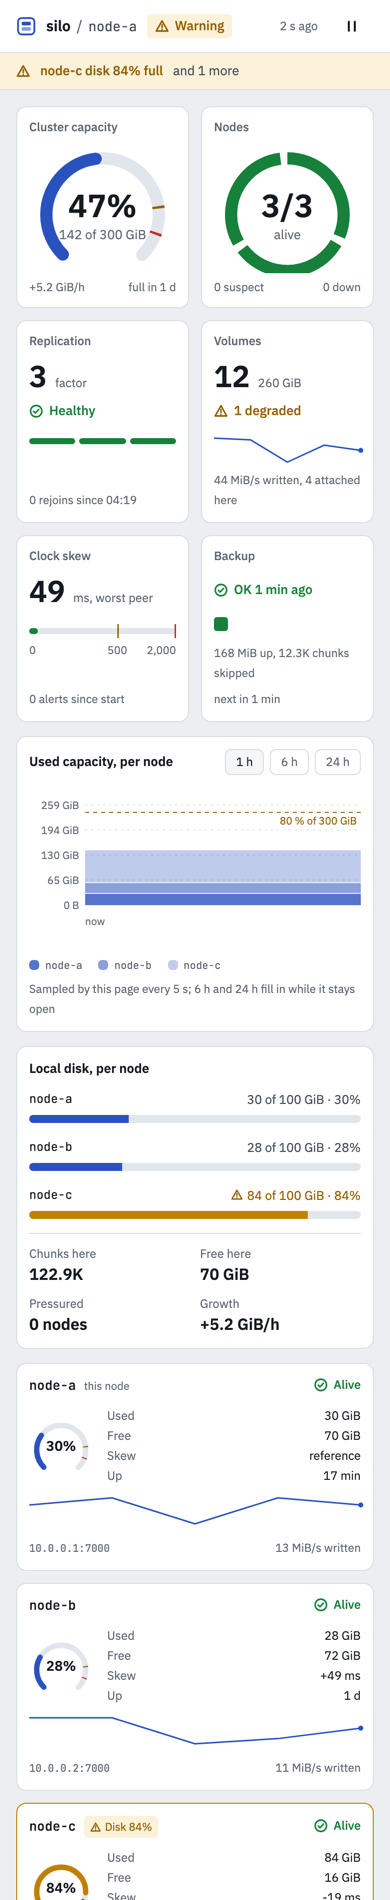
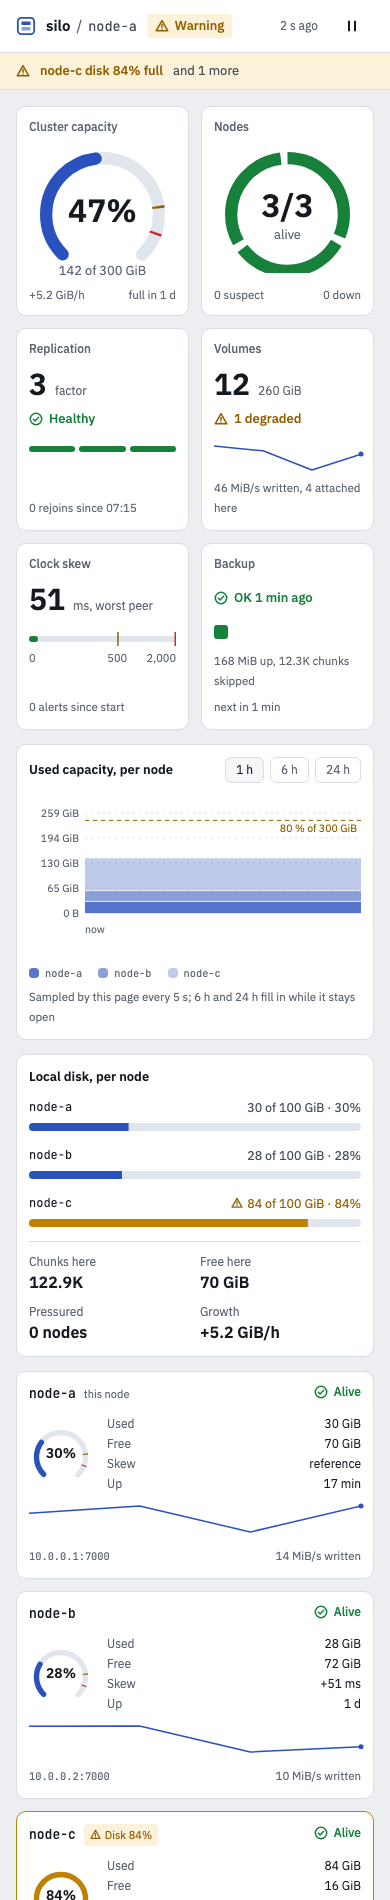
ui: move the gauge caption below the arc
The capacity gauge drew its caption at y=80, level with the lower third of
the arc, where the inner edge leaves only about 70 units of room. A caption
like "455 GiB of 2.4 TiB" is about 100 units wide at that size, so its first
and last words were painted over the two arc ends.

The caption now sits below the arc ends, where the whole width is free, and
the viewBox grows to fit only when there is a caption, so the node cards
keep their tight box. Captions longer than 20 characters are cut with an
ellipsis; the accessible name keeps the full text. The skeleton on the
capacity tile follows the new aspect ratio, and the docs screenshots are
re-captured.

diff --git a/ui/src/components/charts/ArcGauge.vue b/ui/src/components/charts/ArcGauge.vue
@@ -40,6 +40,17 @@ const CAPTION: Readonly<Record<Level, string>> = {
 const WORD: Readonly<Record<Level, string>> = { healthy: '', attention: 'warning', degraded: 'critical' }
 const TICK = ['var(--c-warn)', 'var(--c-crit)']
 
+// The arc ends reach down to about y=101 (outer edge, round caps included), so
+// a caption between them would be drawn over the arc. It sits below them
+// instead, where the full width is free, and the viewBox grows only when there
+// is one so captionless gauges keep their tight box.
+const CAPTION_Y = 109
+const HEIGHT = 108
+const HEIGHT_WITH_CAPTION = 114
+// At font-size 10.5 a character is about 6 units wide, so 20 fill the 120-unit
+// box. formatOf tops out at "1023 GiB of 1023 TiB" (20), which always fits.
+const CAPTION_MAX = 20
+
 const track = arcDash(1, R, SWEEP)
 const level = computed<Level>(() => props.level ?? fillLevel(props.ratio))
 const fill = computed(() => (props.ratio !== null && props.ratio > 0 ? arcDash(props.ratio, R, SWEEP) : null))
@@ -52,6 +63,11 @@ const tickMarks = computed(() =>
     .filter(({ t }) => props.ratio === null || t > props.ratio),
 )
 
+const viewBox = computed(() => `0 0 120 ${String(props.caption ? HEIGHT_WITH_CAPTION : HEIGHT)}`)
+const shownCaption = computed(() =>
+  props.caption.length > CAPTION_MAX ? `${props.caption.slice(0, CAPTION_MAX - 1).trimEnd()}\u2026` : props.caption,
+)
+
 const ariaLabel = computed(() => {
   if (props.ratio === null) return `${props.label} not available`
   return [`${props.label} ${props.value}`, props.caption, WORD[level.value]].filter((s) => s !== '').join(', ')
@@ -61,7 +77,7 @@ const ariaLabel = computed(() => {
 <template>
   <svg
     width="100%"
-    viewBox="0 0 120 108"
+    :viewBox="viewBox"
     role="img"
     :aria-label="ariaLabel"
     class="block"
@@ -108,7 +124,7 @@ const ariaLabel = computed(() => {
     />
     <text
       x="60"
-      y="62"
+      :y="caption ? 66 : 62"
       text-anchor="middle"
       font-size="26"
       font-weight="600"
@@ -117,10 +133,10 @@ const ariaLabel = computed(() => {
     <text
       v-if="caption"
       x="60"
-      y="80"
+      :y="CAPTION_Y"
       text-anchor="middle"
       font-size="10.5"
       :fill="CAPTION[level]"
-    >{{ caption }}</text>
+    >{{ shownCaption }}</text>
   </svg>
 </template>

diff --git a/ui/src/components/charts/ArcGauge.spec.ts b/ui/src/components/charts/ArcGauge.spec.ts
@@ -36,6 +36,35 @@ describe('ArcGauge', () => {
     expect(w.findAll('[data-part="tick"]')).toHaveLength(ticks)
   })
 
+  it('keeps the tight box and centred value when there is no caption', () => {
+    const w = gauge()
+    expect(w.get('svg').attributes('viewBox')).toBe('0 0 120 108')
+    expect(w.get('text').attributes('y')).toBe('62')
+    expect(w.findAll('text')).toHaveLength(1)
+  })
+
+  it('puts the caption below the arc ends and grows the box to fit it', () => {
+    const w = gauge({ caption: '455 GiB of 2.4 TiB' })
+    const [value, caption] = w.findAll('text')
+    expect(w.get('svg').attributes('viewBox')).toBe('0 0 120 114')
+    expect(value?.attributes('y')).toBe('66')
+    // The arc's outer edge ends near y=101; a 10.5 caption with its baseline
+    // at 109 starts below that.
+    expect(Number(caption?.attributes('y'))).toBeGreaterThan(101 + 7)
+    expect(caption?.text()).toBe('455 GiB of 2.4 TiB')
+  })
+
+  it('shows a 20 character caption in full', () => {
+    expect(gauge({ caption: '1023 GiB of 1023 TiB' }).findAll('text')[1]?.text()).toBe('1023 GiB of 1023 TiB')
+  })
+
+  it('cuts a longer caption with an ellipsis but keeps it whole in the accessible name', () => {
+    const long = 'a caption far too long to fit'
+    const w = gauge({ caption: long })
+    expect(w.findAll('text')[1]?.text()).toBe('a caption far too l\u2026')
+    expect(w.get('svg').attributes('aria-label')).toBe(`Capacity 47%, ${long}`)
+  })
+
   it('draws warn and crit ticks at 80 and 90 percent by default', () => {
     const ticks = gauge().findAll('[data-part="tick"]')
     expect(ticks.map((t) => t.attributes('stroke'))).toEqual(['var(--c-warn)', 'var(--c-crit)'])

diff --git a/ui/src/components/tiles/CapacityTile.spec.ts b/ui/src/components/tiles/CapacityTile.spec.ts
@@ -22,7 +22,7 @@ const footer = (w: ReturnType<typeof tile>) => w.findAll('.mt-auto span').map((s
 describe('CapacityTile', () => {
   it('shows a skeleton and no gauge while loading', () => {
     const w = tile({ capacity: undefined })
-    expect(w.findComponent(Skeleton).exists()).toBe(true)
+    expect(w.findComponent(Skeleton).classes()).toContain('aspect-[120/114]')
     expect(w.find('svg').exists()).toBe(false)
     expect(footer(w)).toEqual(['', ''])
   })
@@ -38,6 +38,11 @@ describe('CapacityTile', () => {
     const label = tile().get('svg').attributes('aria-label')
     expect(label).toContain('30%')
     expect(label).toContain('30 of 100 GiB')
+  })
+
+  it('reserves the same box for the skeleton as the captioned gauge draws', () => {
+    const [, , w, h] = (tile().get('svg').attributes('viewBox') ?? '').split(' ')
+    expect(tile({ capacity: undefined }).findComponent(Skeleton).classes()).toContain(`aspect-[${String(w)}/${String(h)}]`)
   })
 
   it('shows growth only when the rate is known', () => {

diff --git a/ui/src/components/NodeCard.spec.ts b/ui/src/components/NodeCard.spec.ts
@@ -25,6 +25,12 @@ describe('NodeCard header', () => {
     expect(w.get('article').attributes('aria-labelledby')).toBe(w.get('h3').attributes('id'))
   })
 
+  it('draws the disk gauge without a caption, so it keeps the tight box', () => {
+    const svg = card({ usedBytes: 30 * GIB, capacityBytes: 100 * GIB }).get('svg[role="img"]')
+    expect(svg.attributes('viewBox')).toBe('0 0 120 108')
+    expect(svg.findAll('text')).toHaveLength(1)
+  })
+
   it('tags the responding node only', () => {
     expect(card({}, { self: true }).text()).toContain('this node')
     expect(card({}, { self: false }).text()).not.toContain('this node')

diff --git a/ui/src/components/tiles/CapacityTile.vue b/ui/src/components/tiles/CapacityTile.vue
@@ -35,7 +35,7 @@ const full = computed(() => {
     <div class="mx-auto w-full max-w-[150px]">
       <Skeleton
         v-if="capacity === undefined"
-        class="aspect-[120/108] w-full rounded-full"
+        class="aspect-[120/114] w-full rounded-full"
       />
       <ArcGauge
         v-else
